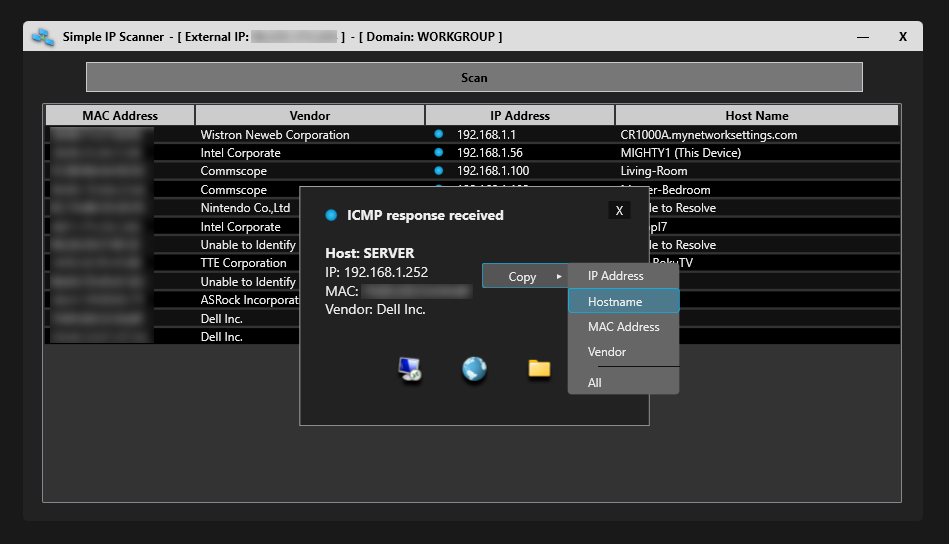
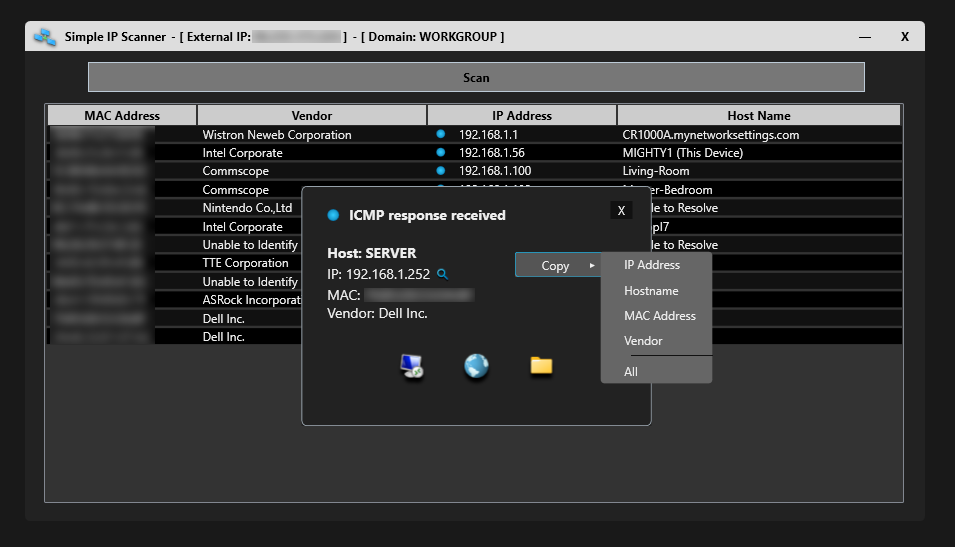
Updated readme and screenshots

diff --git a/README.md b/README.md
@@ -9,11 +9,11 @@ For use with basic networks to get an up to date list of client: MAC Address, Ve
 
 External IP Address and Domain are also displayed in the titlebar after initiating a scan<br>
 
-Right click the scan button to change subnets
+Right click the scan button to change subnets<br>
 
 <p align="center"><img src="https://github.com/illsk1lls/IPScanner/blob/main/.readme/ScanContextSubnet.png?raw=true"></p>
 
-Double-clicking a listed item will give you a pop-up showing available connection options to that device.  Clickable buttons will appear for available options. 
+Double-clicking a listed item will give you a pop-up showing available connection options to that device.  Clickable buttons will appear for available options.<br>
 
 <p align="center"><img src="https://github.com/illsk1lls/IPScanner/blob/main/.readme/DoubleClickPopup.png?raw=true"></p>
 
@@ -21,7 +21,11 @@ Right clicking the pop-up will produce CopyToClipboard options.<br>
 
 <p align="center"><img src="https://github.com/illsk1lls/IPScanner/blob/main/.readme/CopyItemToClip.png?raw=true"></p>
 
-Right-Click anywhere in the ListView window for Export options of the current list. (HTML example export shown)
+Click the magnifying glass to the right of the IP Address on the popup to use the port scanner.<br>
+
+<p align="center"><img src="https://github.com/illsk1lls/IPScanner/blob/main/.readme/PortScan.png?raw=true"></p>
+
+Right-Click anywhere in the main ListView window for Export options for the current list. (HTML example export shown) <br>
 
 <p align="center"><img src="https://github.com/illsk1lls/IPScanner/blob/main/.readme/ContextMenuExport.png?raw=true"></p>
 
